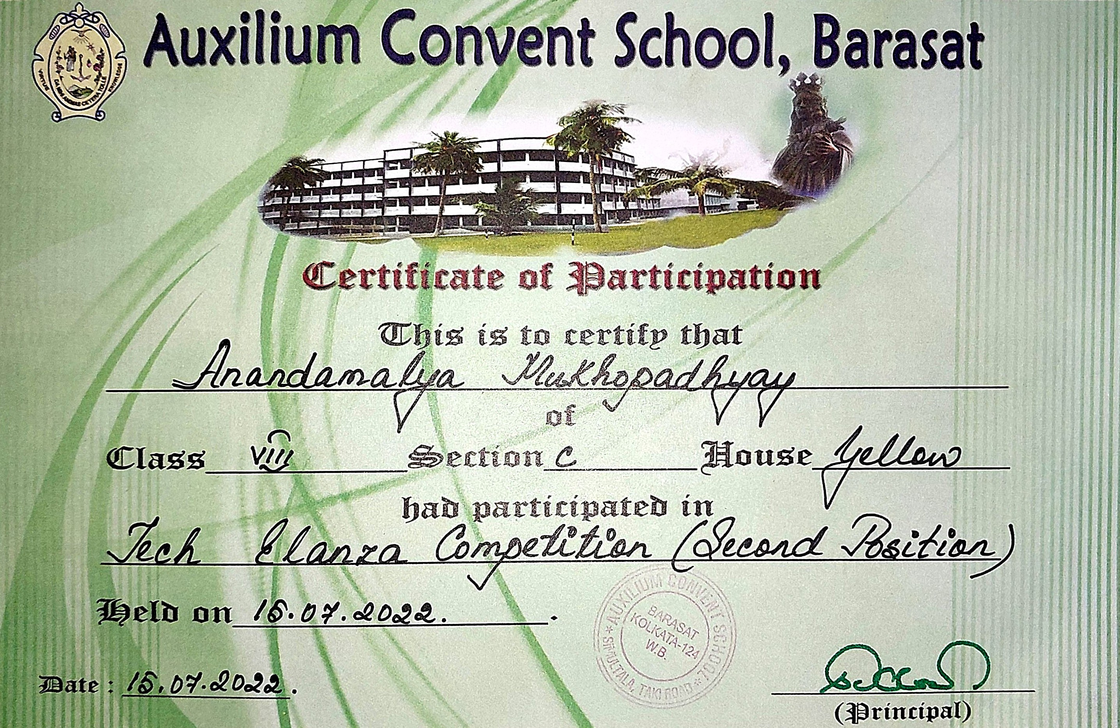
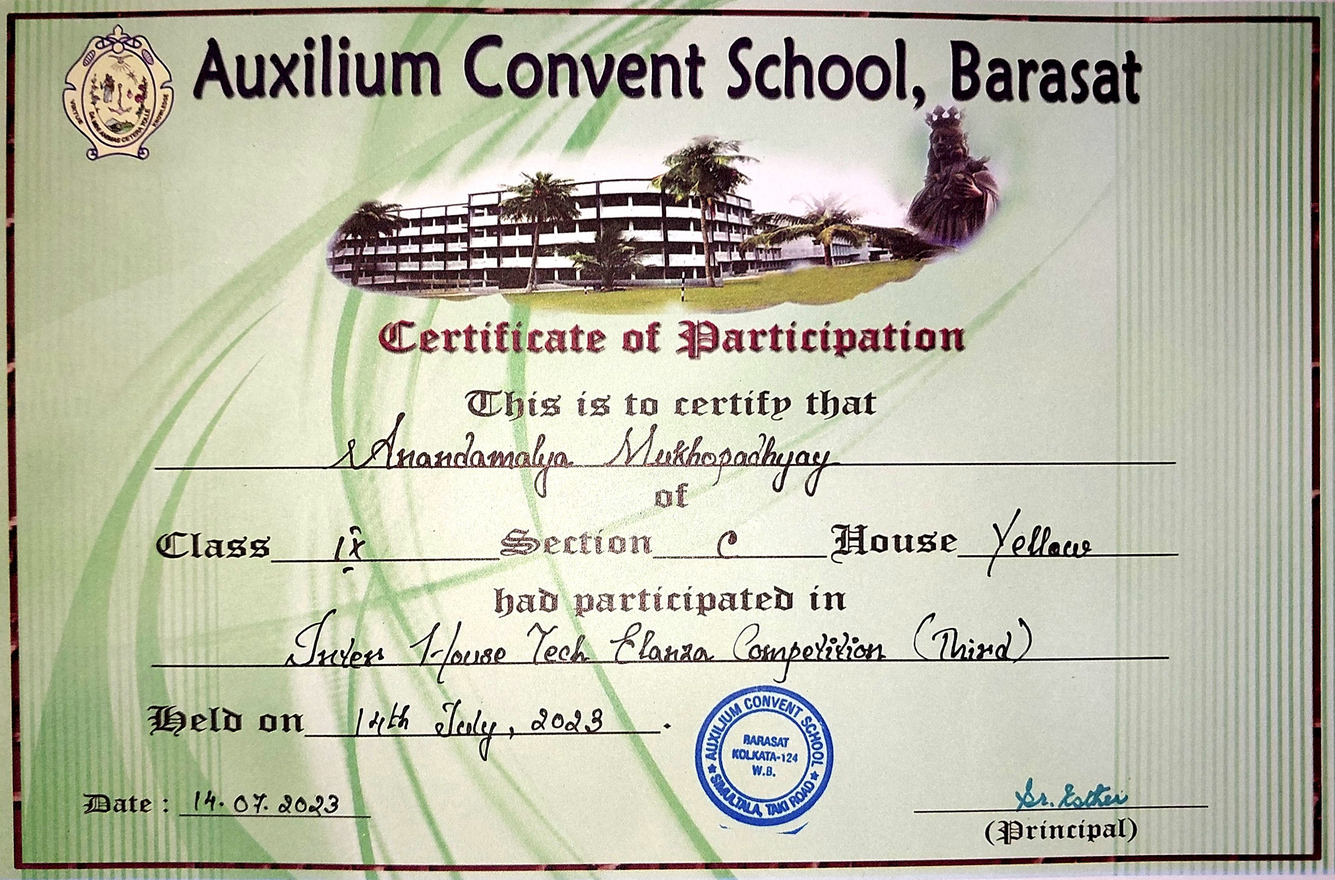
Website 1.2
Added Favicon. Changed about me image & header logo.  Changed certificates sequence. New hero-content tagline. Changed header logo size. Changed about me paragraph.

diff --git a/index.html b/index.html
@@ -3,7 +3,8 @@
 <head>
     <meta charset="UTF-8">
     <meta name="viewport" content="width=device-width, initial-scale=1.0">
-    <title>Anandamalya's Website</title>
+    <link rel="icon" type="image/png" href="favicon.png">
+    <title>Anandamalya-Ayeonix</title>
     <link rel="stylesheet" href="style.css">
 </head>
 <body>
@@ -15,9 +16,9 @@
     <header>
         <div class="container">
             <div class="header-content">
-                <img src="lol.png" class="logo-image">
+                <img src="ayeonix-logo.png" class="logo-image">
                 <div class="logo">Anandamalya Mukhopadhyay</div>
-                <div class="tagline">BE DIFFERENT!</div> <!-- Add tagline here -->
+                <div class="tagline">BE DIFFERENT!</div>
                 <nav>
                     <ul>
                         <li><a href="#home">Home</a></li>
@@ -31,19 +32,19 @@
         </div>
         <div class="social-links">
             <a href="https://open.spotify.com/user/uohiy4j9crv9g8l3pgkymp236" target="_blank" title="Spotify">
-                    <img src="social-spotify.png" alt="Spotify" width="30">
+                    <img src="Images/Social/social-spotify.png" alt="Spotify" width="30">
            </a>
            <a href="https://www.instagram.com/anandamalya" target="_blank" title="Instagram 1">
-            <img src="social-ig.png" alt="Instagram" width="30">
+            <img src="Images/Social/social-ig.png" alt="Instagram" width="30">
         </a>
             <a href="https://www.youtube.com/@anandamalya" target="_blank" title="YouTube">
-                <img src="social-yt.png" alt="YouTube" width="30">
+                <img src="Images/Social/social-yt.png" alt="YouTube" width="30">
             </a>
             <a href="mailto:anandamalyaofficial@gmail.com" title="Email">
-                <img src="social-email.png" alt="Email" width="30">
+                <img src="Images/Social/social-email.png" alt="Email" width="30">
             </a>
             <a href="https://github.com/anandamalyamukhopadhyay" target="_blank" title="Instagram 1">
-                <img src="social-github.png" alt="Github" width="30">
+                <img src="Images/Social/social-github.png" alt="Github" width="30">
                 </a>
         </div>
     </header>
@@ -54,7 +55,7 @@
         <div class="container">
             <div class="hero-content">
                 <h1>Welcome to My Website</h1>
-                <p>This is Ayeonix! Currently a Student.</p>
+                <p>This is Ayeonix! Not your average coder.</p>
                 <a href="#" class="btn">Imagination meets Innovation here!</a>
             </div>
         </div>
@@ -65,13 +66,13 @@
         <div class="container">
             <div class="about-content">
                 <div class="about-image">
-                    <img src="pp.jpg" alt="Your Photo">
+                    <img src="Images/aboutme.png" alt="Your Photo">
                 </div>
                 <div class="about-text">
                     <h2 class="section-title">About Me</h2>
-                    <p>Hello! This is Anandamalya. a passionate tech savvy with 5 years of experience in these fields. I started to make myself capable enough in these fields since Class 7. I specialize in Editing, Designing, Programming and I'm dedicated to delivering high-quality work that exceeds expectations of people. Check out skills section to know all my skills.</p>
-                    <p>I am currently studying in Class 11 at Sudhir Memorial Institute and I'm also an ex student of Auxilium Convent School till Class 10.</p>
-                    <p>I've worked with a few clients across social media, also collaborated with some and helped them to achieve their goals through my works. My approach combines creativity with strategic thinking to create solutions that not only look great but also deliver results.</p>
+                    <p>Hello! This is Anandamalya. A passionate tech savvy with 5 years of experience in these fields. I started to make myself capable enough in these fields since Class 7. I specialize in Editing, Designing, Programming and I'm dedicated to delivering high quality work that exceeds expectations of people. From designing web pages to arduino and esp programming. Check out skills section to know all my skills.</p>
+                    <p>I am currently studying in Class 11 at Sudhir Memorial Institute and also an ex student of Auxilium Convent School till Class 10.</p>
+                    <p>My works combines creativity with strategic thinking to create solutions that not only look great but also deliver results.</p>
                     <p>When I'm not working, you can find me playing guitar or clicking pictures out there!</p>
                 </div>
             </div>
@@ -321,7 +322,7 @@
                 <img src="Certificates/C10.jpg" alt="Certificate 10" class="certificate-image">
                 <h3>Tech Elanza #2</h3>
                 <p>Issued by: Auxilium Convent School</p>
-                <p>Date: 15/07/2022</p>
+                <p>Date: 14/07/2023</p>
             </div>
 
             <!-- Certificate 11 -->
@@ -337,11 +338,11 @@
     <img src="Certificates/C12.jpg" alt="Certificate 12" class="certificate-image">
     <h3>Tech Elanza #3</h3>
     <p>Issued by: Auxilium Convent School</p>
-    <p>Date: 14/07/2023</p>
+    <p>Date: 15/07/2022</p>
 </div>
 <!-- Additional text -->
 <p style="text-align: center; margin-top: 20px; font-style: italic;">
-    And the collection grows on with further achievements...
+    "More certificates are on their way..."
 </p>
 </div>
     </div>
@@ -358,7 +359,7 @@
         <div class="container">
             <div class="contact-title">
                 <h2 class="section-title">Get In Touch</h2>
-                <p>Contact me here!</p>
+                <p>Contact me here</p>
             </div>
             <div class="contact-content">
                 <div class="contact-info">
@@ -412,7 +413,7 @@
         </div>
     </footer>
 
-<!-- Add this script at the end of the body -->
+
 <script>
     // Generate stars dynamically
     const starsContainer = document.getElementById('stars');

diff --git a/style.css b/style.css
@@ -180,7 +180,7 @@ header {
 
         /* Adjust the size of the logo image */
 .logo-image {
-    width: 50px; /* Set the desired width */
+    width: 115px; /* Set the desired width */
     height: auto; /* Maintain aspect ratio */
     display: inline-block; /* Ensure it aligns properly */
     margin-right: 10px; /* Add some spacing between the logo and the text */
